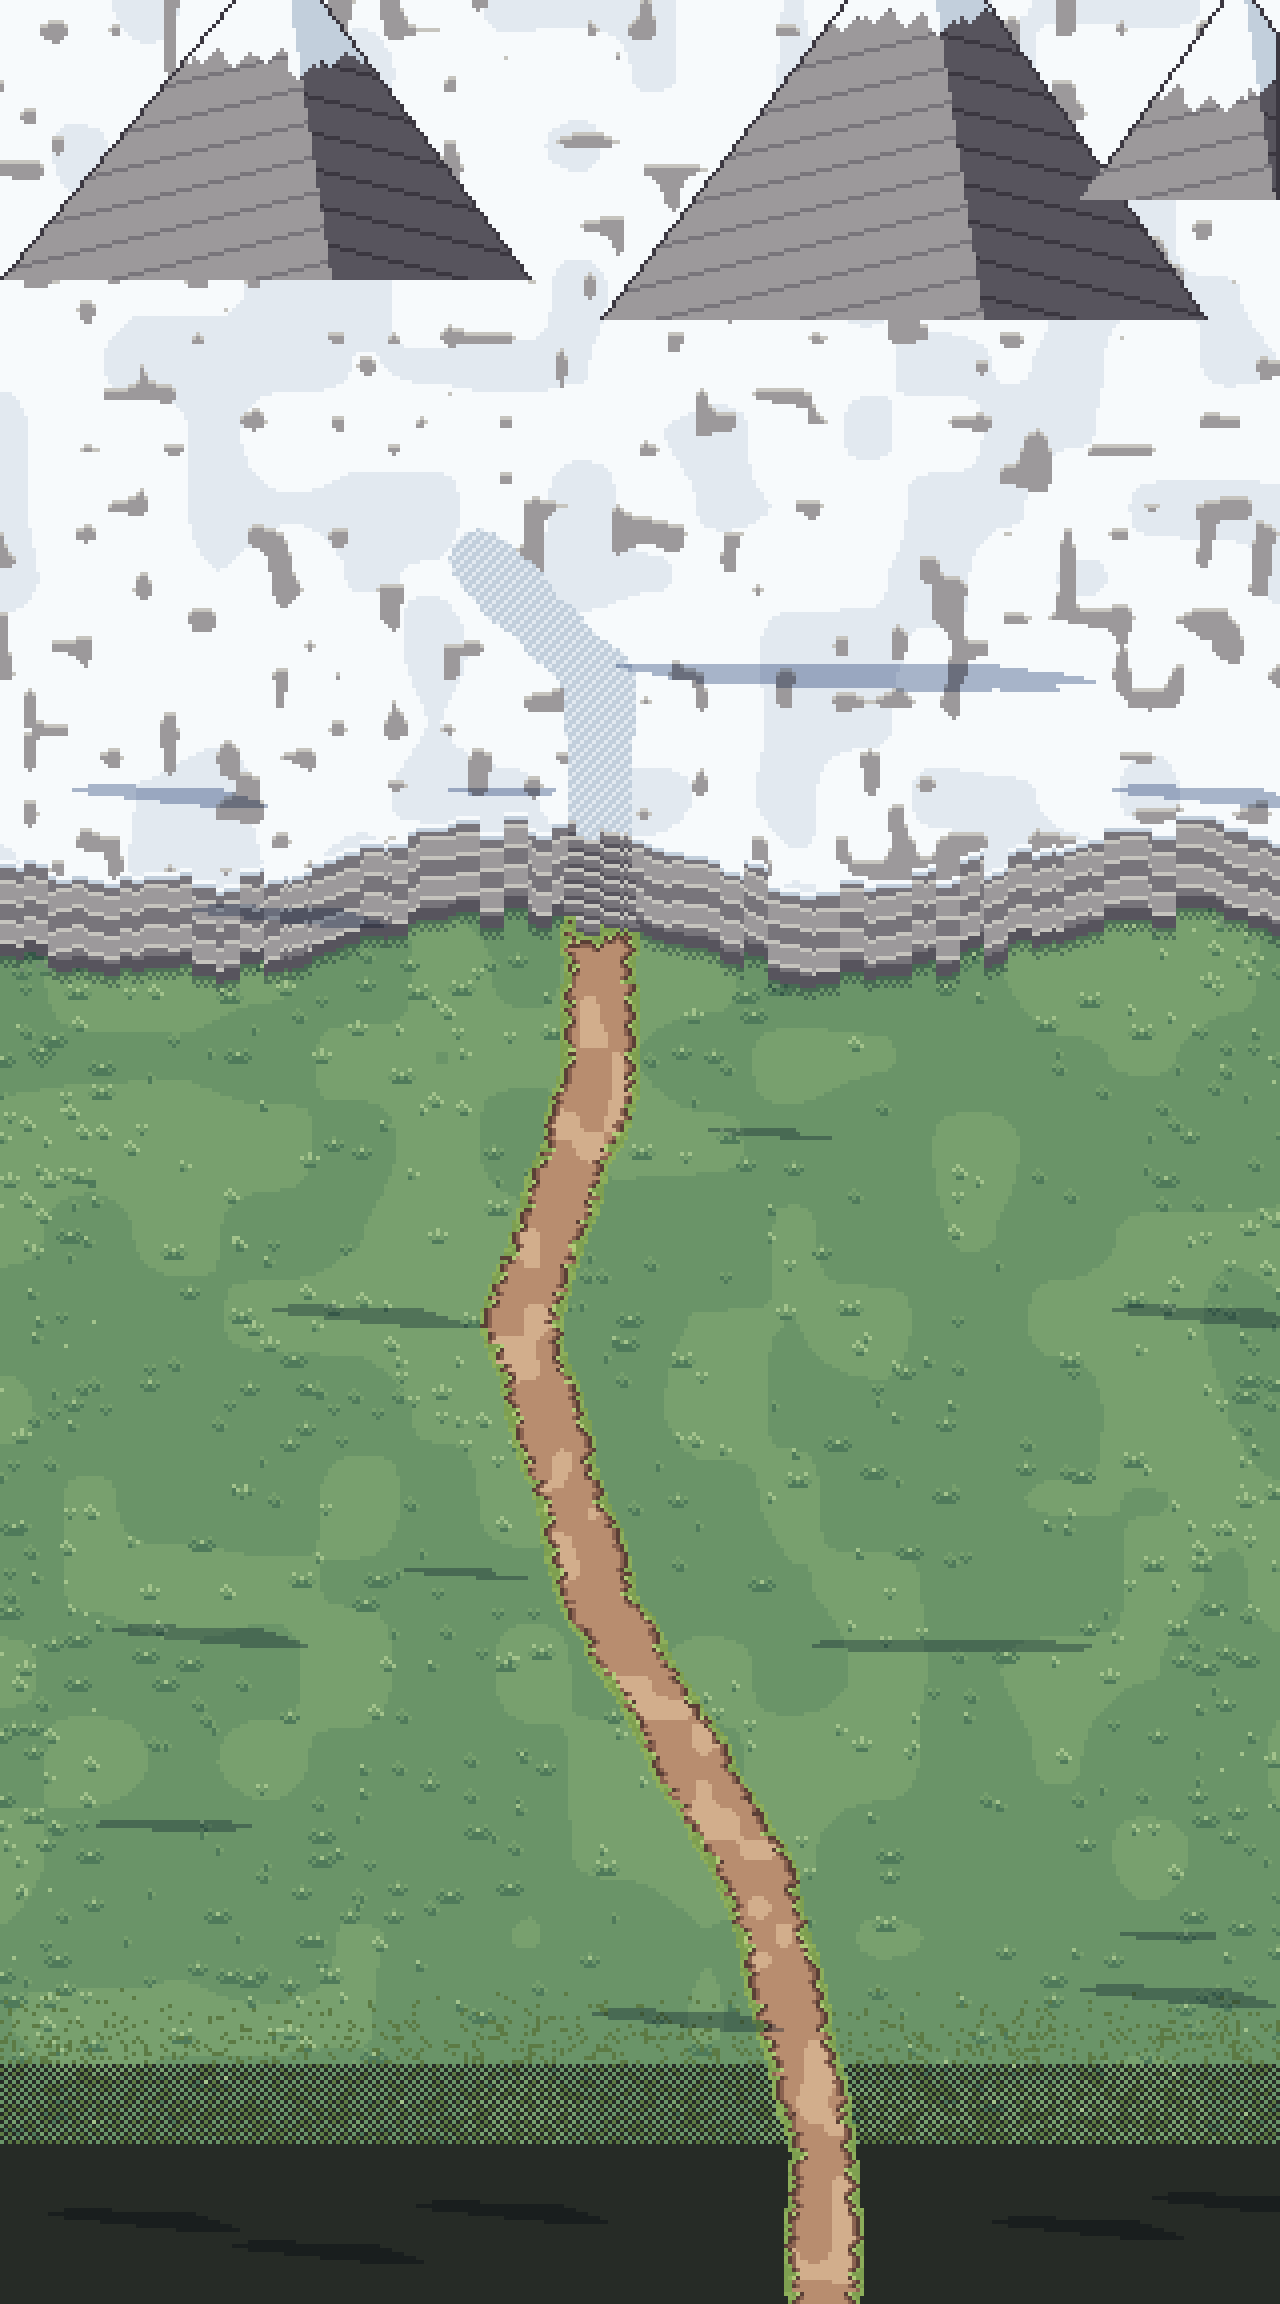
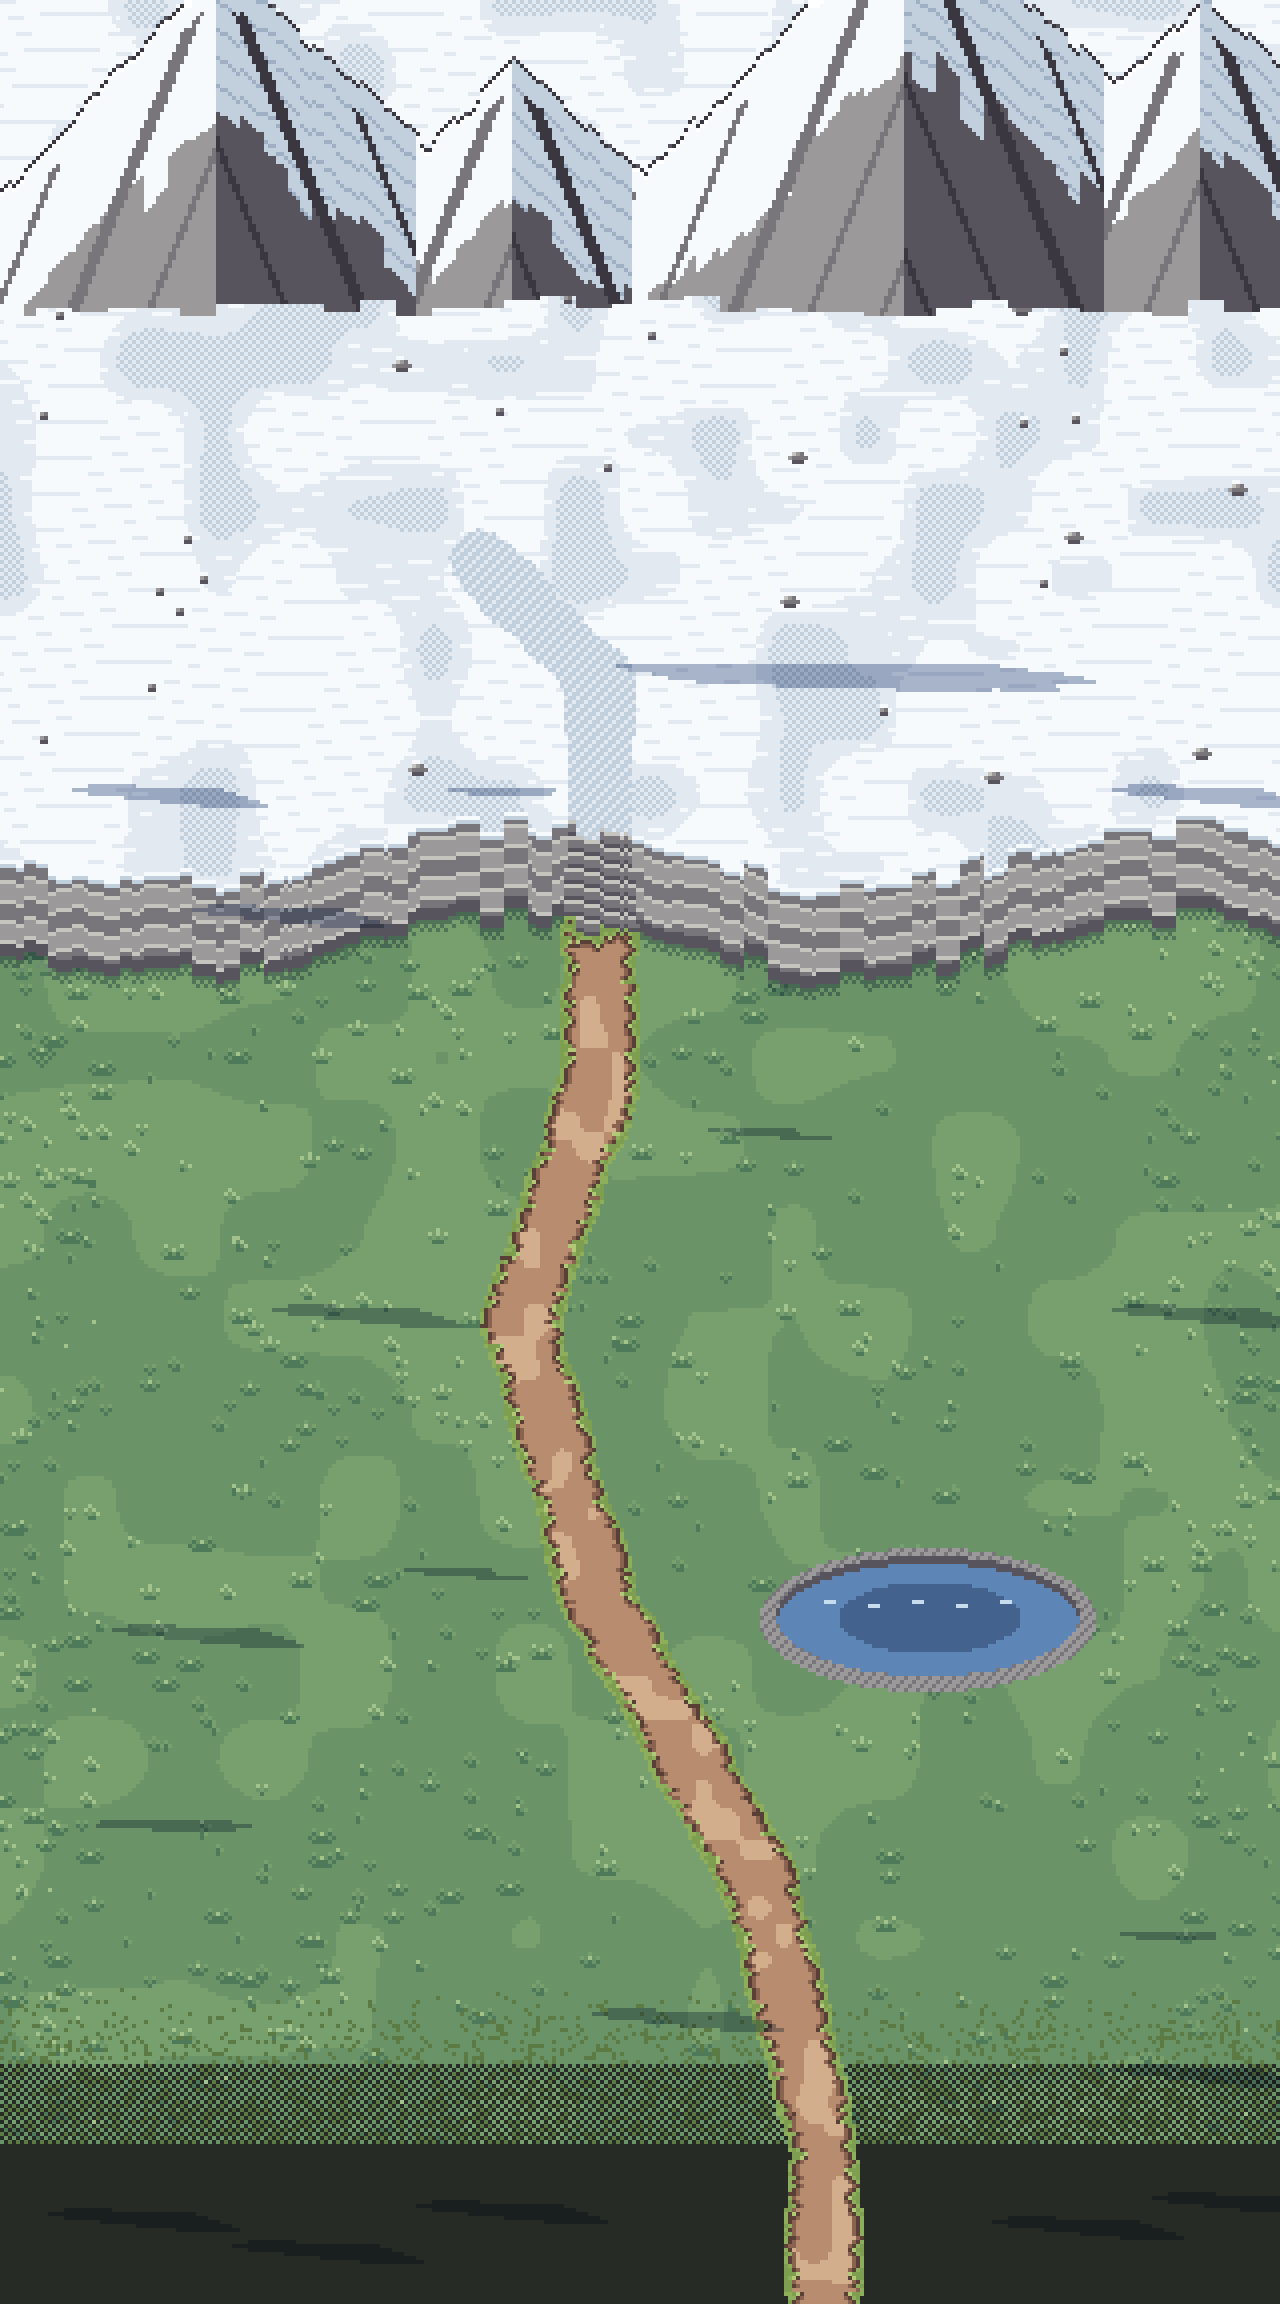
Snowy Ridge: no snow below the face, softer snow and better peaks
The tarn on the meadow below the face is now open water on a stony shore,
and the meadow's pines carry no snow (snow lies only on the high terrace).
The terrace snow gets wind ripples and blue hollows, rocks poke through with
snow on their tops, and the peaks become one ridgeline of summits with lit
west snowfields, blue-shaded east faces and rock ribs down the fall line.

Claude-Session: https://claude.ai/code/session_01UudrmtYkicLNgZeuSjvjrK

diff --git a/lib/zone-maps.ts b/lib/zone-maps.ts
@@ -781,11 +781,10 @@ export const zoneMaps: Record<ZoneId, ZoneMap> = {
       ['pine-b4', 'pine', 240, 477, 36, 78],
       ['pine-b5', 'pine', 280, 471, 36, 78],
       ['pine-b6', 'pine', 140, 425, 36, 78],
-      ['pine-m1', 'snowy_pine', 20, 329, 37, 78],
-      ['pine-m2', 'snowy_pine', 262, 419, 37, 78],
-      ['pine-m3', 'snowy_pine', 270, 249, 37, 78],
-      ['pine-m4', 'snowy_pine', 60, 249, 37, 78],
-      ['tarn', 'frozen_tarn', 197, 381, 68, 30],
+      ['pine-m1', 'pine', 20, 329, 36, 78],
+      ['pine-m2', 'pine', 270, 439, 36, 78],
+      ['pine-m3', 'pine', 270, 249, 36, 78],
+      ['pine-m4', 'pine', 60, 249, 36, 78],
       ['cairn-1', 'cairn', 100, 361, 20, 32],
       ['cairn-2', 'cairn', 176, 251, 20, 32],
       ['boulder-1', 'boulder', 20, 431, 36, 25],
@@ -797,26 +796,26 @@ export const zoneMaps: Record<ZoneId, ZoneMap> = {
       ['pine-t3', 'snowy_pine', 40, 149, 37, 78],
     ],
     walk: [
-      '13.8#31.11#12.4#1.',
-      '13.9#29.12#12.5#',
-      '12.11#27.14#10.6#',
-      '11.12#27.15#8.7#',
-      '10.14#25.16#8.7#',
-      '9.16#23.18#6.8#',
-      '8.18#21.20#4.9#',
-      '8.18#20.22#2.10#',
-      '7.20#19.22#2.10#',
-      '6.22#17.35#',
-      '5.24#15.36#',
-      '4.25#14.37#',
-      '3.27#13.37#',
-      '3.28#11.30#8.',
-      '2.30#9.31#8.',
-      '1.31#8.33#7.',
-      '33#7.34#6.',
-      '34#5.35#6.',
-      '38.37#5.',
-      '37.39#4.',
+      '10.8#31.17#8.3#3.',
+      '9.10#30.18#6.5#2.',
+      '9.11#28.20#4.7#1.',
+      '7.14#10.2#14.22#2.9#',
+      '6.16#8.4#12.34#',
+      '5.19#6.5#10.35#',
+      '5.20#4.7#8.36#',
+      '4.22#1.10#6.37#',
+      '3.35#4.38#',
+      '2.38#1.39#',
+      '1.79#',
+      '80#',
+      '80#',
+      '80#',
+      '80#',
+      '80#',
+      '80#',
+      '80#',
+      '80#',
+      '14#6.3#1.8#4.3#6.16#2.12#1.4#',
       '80.',
       '80.',
       '80.',
@@ -876,7 +875,7 @@ export const zoneMaps: Record<ZoneId, ZoneMap> = {
       '80.',
       '80.',
       '80.',
-      '80.',
+      '15.9#44.8#4.',
       '15.9#44.8#4.',
       '15.9#44.8#4.',
       '80.',
@@ -894,14 +893,14 @@ export const zoneMaps: Record<ZoneId, ZoneMap> = {
       '80.',
       '80.',
       '25.5#50.',
+      '25.5#22.12#16.',
       '25.5#20.16#14.',
-      '25.5#20.16#14.',
+      '5.9#35.18#13.',
+      '5.9#34.20#12.',
+      '5.9#34.20#12.',
+      '49.18#13.',
       '50.16#14.',
-      '5.9#36.16#14.',
-      '5.9#36.16#14.',
-      '50.16#14.',
-      '80.',
-      '80.',
+      '52.12#16.',
       '80.',
       '80.',
       '80.',
@@ -919,14 +918,14 @@ export const zoneMaps: Record<ZoneId, ZoneMap> = {
       '70.5#5.',
       '70.5#5.',
       '80.',
-      '66.8#6.',
-      '35.9#22.8#6.',
-      '35.9#22.8#6.',
+      '80.',
       '35.9#36.',
-      '80.',
-      '80.',
-      '80.',
-      '80.',
+      '35.9#36.',
+      '35.9#36.',
+      '68.8#4.',
+      '68.8#4.',
+      '68.8#4.',
+      '68.8#4.',
       '80.',
       '80.',
       '80.',
@@ -942,7 +941,7 @@ export const zoneMaps: Record<ZoneId, ZoneMap> = {
       '80.',
       '80.',
     ].map(unrle),
-    stands: { garden: [206, 568], tarn: [170, 420], cabin: [200, 176], campfire: [146, 204] },
+    stands: { garden: [206, 568], tarn: [186, 424], cabin: [200, 176], campfire: [146, 204] },
   },
   halt: {
     objects: [

diff --git a/lib/zone-assets.ts b/lib/zone-assets.ts
@@ -67,7 +67,6 @@ import propForestBench from '@/assets/zones/props/forest_bench.png';
 import propForge from '@/assets/zones/props/forge.png';
 import propFoundry from '@/assets/zones/props/foundry.png';
 import propFountain from '@/assets/zones/props/fountain.png';
-import propFrozenTarn from '@/assets/zones/props/frozen_tarn.png';
 import propGalleyTable from '@/assets/zones/props/galley_table.png';
 import propGardenPod from '@/assets/zones/props/garden_pod.png';
 import propGasLamp from '@/assets/zones/props/gas_lamp.png';
@@ -286,7 +285,6 @@ export const zoneProps: Record<string, ImageSourcePropType> = {
   forge: propForge,
   foundry: propFoundry,
   fountain: propFountain,
-  frozen_tarn: propFrozenTarn,
   galley_table: propGalleyTable,
   garden_pod: propGardenPod,
   gas_lamp: propGasLamp,

diff --git a/scripts/art/zones.py b/scripts/art/zones.py
@@ -2233,9 +2233,10 @@ def park(frame: int = 0):
 def ridge(frame: int = 0):
     """The Snowy Ridge, north of the garden: the trail comes up out of the garden's
     treeline at the bottom (the same x, through the same dark forest floor), climbs
-    through thinning pines onto an alpine meadow with a frozen tarn and cairns, then
+    through thinning pines onto an alpine meadow with an open tarn and cairns, then
     by steps up a stone face to the terrace where the cabin stands under the peaks.
-    Snow lies only above the face (world logic); below it only a dusting on the pines."""
+    Snow lies only above the face (world logic): the pines, the tarn and the meadow
+    below it are clear of it."""
     SNOWm, STONEm = MATERIALS['snow'], MATERIALS['stone']
     cv = Canvas(W, H)
     alpine = ['#2F4E3E', '#4F7A5A', '#6A9468', '#78A06E', '#A3C38C']
@@ -2254,11 +2255,14 @@ def ridge(frame: int = 0):
     FACE_H = 24
     for x in range(W):
         r = rim(x)
-        for y in range(0, r):
+        for y in range(0, r):  # snow: soft drifts, wind ripples, blue in the hollows
             n = smooth_noise(x, y, 18, 443)
-            c = SNOWm[3] if n > 0.35 else SNOWm[2]
-            if smooth_noise(x, y, 7, 444) > 0.8:
-                c = STONEm[3] if smooth_noise(x, y - 1, 7, 444) > 0.8 else STONEm[4]  # rock showing through
+            c = SNOWm[3] if n > 0.4 else SNOWm[2] if n > 0.22 or (x + y) % 2 else SNOWm[1]
+            rip = (y * 2 + int(math.sin(x / 13 + y / 31) * 4)) % 9
+            if rip == 0 and n > 0.3:
+                c = SNOWm[2]  # sastrugi: the wind's ripples
+            elif rip == 1 and n > 0.3:
+                c = SNOWm[3]
             cv.set(x, y, c)
         for k in range(FACE_H):
             y = r + k
@@ -2274,23 +2278,56 @@ def ridge(frame: int = 0):
         for d in range(3):
             if (x + d) % 2 or d == 0:
                 style.darken(cv, x, r + FACE_H + d)
-    # peaks along the top
+    for i in range(26):  # rocks poking through the snow, each with snow on its top
+        x, y = int(noise2(i, 0, 447) * W), 70 + int(noise2(i, 1, 447) * 130)
+        if y < rim(x) - 6:
+            detail.pebble(cv, x, y, STONEm, big=i % 3 == 0)
+            cv.set(x, y - 1, SNOWm[3]); cv.set(x + 1, y - 1, SNOWm[3])
+    # the peaks along the top: one ridgeline of summits, sunlit snowfields on their west
+    # faces, blue shade on the east, rock ribs running down the fall line
+    summits = [(54, -10), (128, 14), (226, -26), (300, -2)]
+    def ridge_y(x):
+        return min(ay + abs(x - ax) * (1.05 if x < ax else 0.85) for (ax, ay) in summits) + noise2(x // 3, 7, 448) * 3
+    BASE = 74
     peak_pts = {}
-    for (ax, ay, half, base) in ((70, -14, 70, 70), (230, -24, 80, 80), (310, -6, 40, 50)):
-        for y in range(max(0, ay), base):
-            spread = (y - ay) / (base - ay) * half
-            for x in range(int(ax - spread), int(ax + spread * 0.9) + 1):
-                if 0 <= x < W:
-                    lit = x < ax + (y - ay) * 0.15
-                    hem = ay + 26 + abs((x + ax) % 8 - 4) + int(noise2(x // 8, ax, 446) * 5)
-                    c = (SNOWm[3] if lit else SNOWm[1]) if y < hem else (STONEm[3] if lit else STONEm[1])
-                    if y >= hem and (y - ay + (x if lit else -x) // 4) % 9 == 0:
-                        c = STONEm[2] if lit else STONEm[0]
-                    peak_pts[(x, y)] = c
+    for x in range(W):
+        top = int(ridge_y(x))
+        ax, ay = min(summits, key=lambda p: p[1] + abs(x - p[0]))
+        for y in range(max(0, top), BASE + int(noise2(x // 9, 8, 449) * 6)):
+            lit = x < ax
+            depth = y - top
+            fall = (x - ax) * 0.6 + (y - ay) * (1 if lit else -1) * 0.25
+            rib = (int(fall) % 11 == 0) and depth > 6
+            snowline = 30 + int(noise2(x // 6, ax, 446) * 14)
+            if depth < snowline and not rib:
+                c = SNOWm[3] if lit else SNOWm[1] if depth % 7 else SNOWm[0]
+                if lit and depth < 2:
+                    c = '#FFFFFF'
+            else:
+                c = STONEm[3] if lit else STONEm[1]
+                if rib:
+                    c = STONEm[2] if lit else STONEm[0]
+            peak_pts[(x, y)] = c
     for (x, y), c in peak_pts.items():
-        if (x - 1, y) not in peak_pts or (x + 1, y) not in peak_pts or (y > 0 and (x, y - 1) not in peak_pts):
-            c = STONEm[0]
+        if (x, y - 1) not in peak_pts and y > 0:
+            c = STONEm[0] if (x + 1, y - 1) in peak_pts or (x - 1, y - 1) in peak_pts else STONEm[1]
         cv.set(x, y, c)
+    # the alpine tarn below the face, open water (no snow lies down here)
+    WTR = MATERIALS['water']
+    tarn = {(x, y) for (x, y) in oval(232, 404, 38, 15)}
+    for (x, y) in tarn:
+        d = math.hypot((x - 232) / 38, (y - 404) / 15)
+        c = WTR[1] if d < 0.6 else WTR[2]
+        if (x, y - 1) not in tarn or (x, y - 2) not in tarn:
+            c = STONEm[1]
+        cv.set(x, y, c)
+    for (x, y) in oval(232, 405, 42, 18):
+        if (x, y) not in tarn:
+            cv.set(x, y, STONEm[3] if (x + y) % 3 else STONEm[2])  # a stony shore
+    for k in range(5):
+        gx = 206 + k * 11
+        if (gx, 400 + k % 2) in tarn:
+            cv.hline(gx, 400 + k % 2, 3, WTR[4])
     # the trail: up from the garden, round the tarn, steps up the face, to the cabin
     trail = worlds.thick([(206, H + 12), (206, H - 40), (190, 470), (150, 400), (130, 330), (150, 270), (150, 220)], 9.5, seed=29)
     trail |= worlds.thick([(150, 220), (150, 170), (120, 140)], 8, seed=30)
@@ -2307,16 +2344,16 @@ def ridge(frame: int = 0):
         # the garden's treeline continues at the bottom, clear of the trail
         ('pine-b1', 'pine', 4, H - 100), ('pine-b2', 'pine', 50, H - 92), ('pine-b3', 'pine', 96, H - 102),
         ('pine-b4', 'pine', 240, H - 98), ('pine-b5', 'pine', 280, H - 104), ('pine-b6', 'pine', 140, H - 150),
-        ('pine-m1', 'snowy_pine', 20, 330), ('pine-m2', 'snowy_pine', 262, 420), ('pine-m3', 'snowy_pine', 270, 250),
-        ('pine-m4', 'snowy_pine', 60, 250), ('tarn', 'frozen_tarn', 196, 380), ('cairn-1', 'cairn', 100, 360),
+        ('pine-m1', 'pine', 20, 330), ('pine-m2', 'pine', 270, 440), ('pine-m3', 'pine', 270, 250),
+        ('pine-m4', 'pine', 60, 250), ('cairn-1', 'cairn', 100, 360),
         ('cairn-2', 'cairn', 176, 250), ('boulder-1', 'boulder', 20, 430), ('stone-1', 'stone', 280, 470),
         ('cabin', 'cabin', 150, 80), ('campfire', 'campfire', 110, 176), ('pine-t1', 'snowy_pine', 10, 120),
         ('pine-t2', 'snowy_pine', 270, 120), ('pine-t3', 'snowy_pine', 40, 150),
     ]
     face = {(x, y) for x in range(W) for y in range(rim(x), rim(x) + FACE_H)}
     peaks_block = set(peak_pts)
-    stands = {'garden': (206, H - 8), 'tarn': (170, 420), 'cabin': (200, 176), 'campfire': (146, 204)}
-    return cv, objects, stands, (face - steps) | peaks_block
+    stands = {'garden': (206, H - 8), 'tarn': (186, 424), 'cabin': (200, 176), 'campfire': (146, 204)}
+    return cv, objects, stands, (face - steps) | peaks_block | tarn
 
 
 def halt(frame: int = 0):
